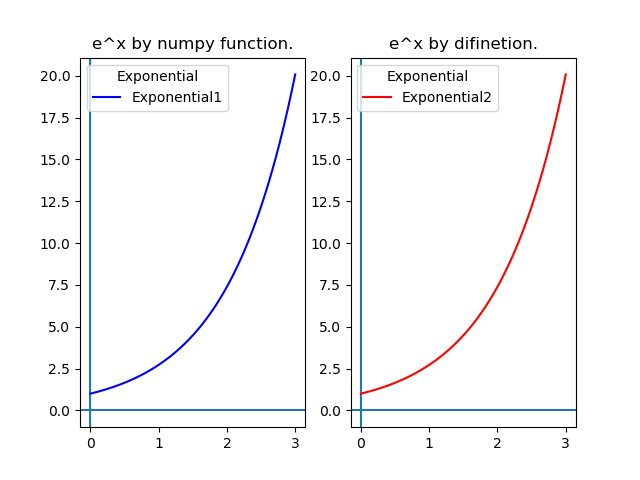
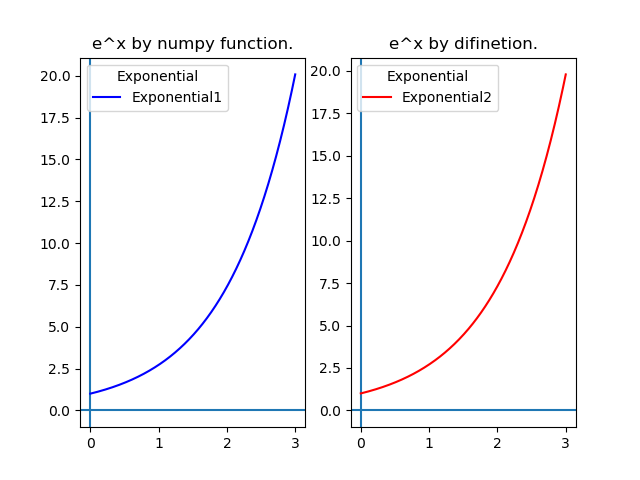
Change

diff --git a/Python/Mathematics/Ploting/DE2.py b/Python/Mathematics/Ploting/DE2.py
@@ -1,0 +1,33 @@
+import numpy as np
+import matplotlib.pyplot as plt
+import time as t
+
+dx = 0.000001
+x = np.arange(0, 3.00000001, dx)
+x = list(x)
+y = [1.0]
+
+time1 = t.process_time()
+for i in range(0, len(x)-1):
+    div = float(y[i])
+    p = y[i]
+    y += [p + (div * dx) + (p/2)*(dx**2)]
+time2 = t.process_time()
+
+dx2 = 0.0001
+
+x2 = np.arange(0, 3.00000001, dx)
+x2 = list(x2)
+y2 = [1.0]
+
+time3 = t.process_time()
+for i in range(0, len(x2)-1):
+    div2 = float(y2[i])
+    p = y2[i]
+    y2 += [p + (div2 * dx2)]
+time4 = t.process_time()
+t1 = time2 - time1
+t2 = time4 - time3
+print(np.exp(3))
+print(y[-1], t1)
+print(y2[-1], t2)

diff --git a/Python/Practice/Ploting/stack_plots.py b/Python/Practice/Ploting/stack_plots.py
@@ -1,0 +1,18 @@
+import matplotlib.pyplot as plt
+
+Cpu_Strengh = [1, 2, 3, 4, 5]
+
+Microsoft =  [100, 1050, 20000, 5060, 60]
+Intel =      [30, 305, 25000, 60000, 5200]
+AMD =        [1000, 200300, 50000, 20030, 700]
+SnapDragon = [150, 1100, 20050, 5110, 110]
+
+plt.plot([], [], color = "k", label="Microsoft", linewidth=5)
+plt.plot([], [], color = "b", label="Intel", linewidth=5)
+plt.plot([], [], color = "m", label="AMD", linewidth=5)
+plt.plot([], [], color = "g", label="SnapDragon", linewidth=5)
+
+plt.stackplot(Cpu_Strengh, Microsoft, Intel, AMD, SnapDragon, colors = ["k", "b", "m", "g"])
+
+plt.legend()
+plt.show()

diff --git a/Python/Mathematics/NumberTheory/Fibonacci.py b/Python/Mathematics/NumberTheory/Fibonacci.py
@@ -14,6 +14,6 @@ for i in  range(2, n):
 #     write.writelines(str(Fib))
 
 # If you wanted to know the golden ratio:
-# for i in range(1,n):
-#     e = Fib[i] / Fib[i-1]
-#     print(e)
+for i in range(1,n):
+    e = Fib[i] / Fib[i-1]
+    print(e)

diff --git a/Python/Mathematics/Ploting/PE.py b/Python/Mathematics/Ploting/PE.py
@@ -18,7 +18,7 @@ plt.title("e^x by numpy function.")
 
 # Second method(using the dy/dx = y, y(0)=1):
 
-dx = 0.0001
+dx = 0.01
 x = np.arange(0, 3.00000001, dx)
 x = list(x)
 y = [1.0]
